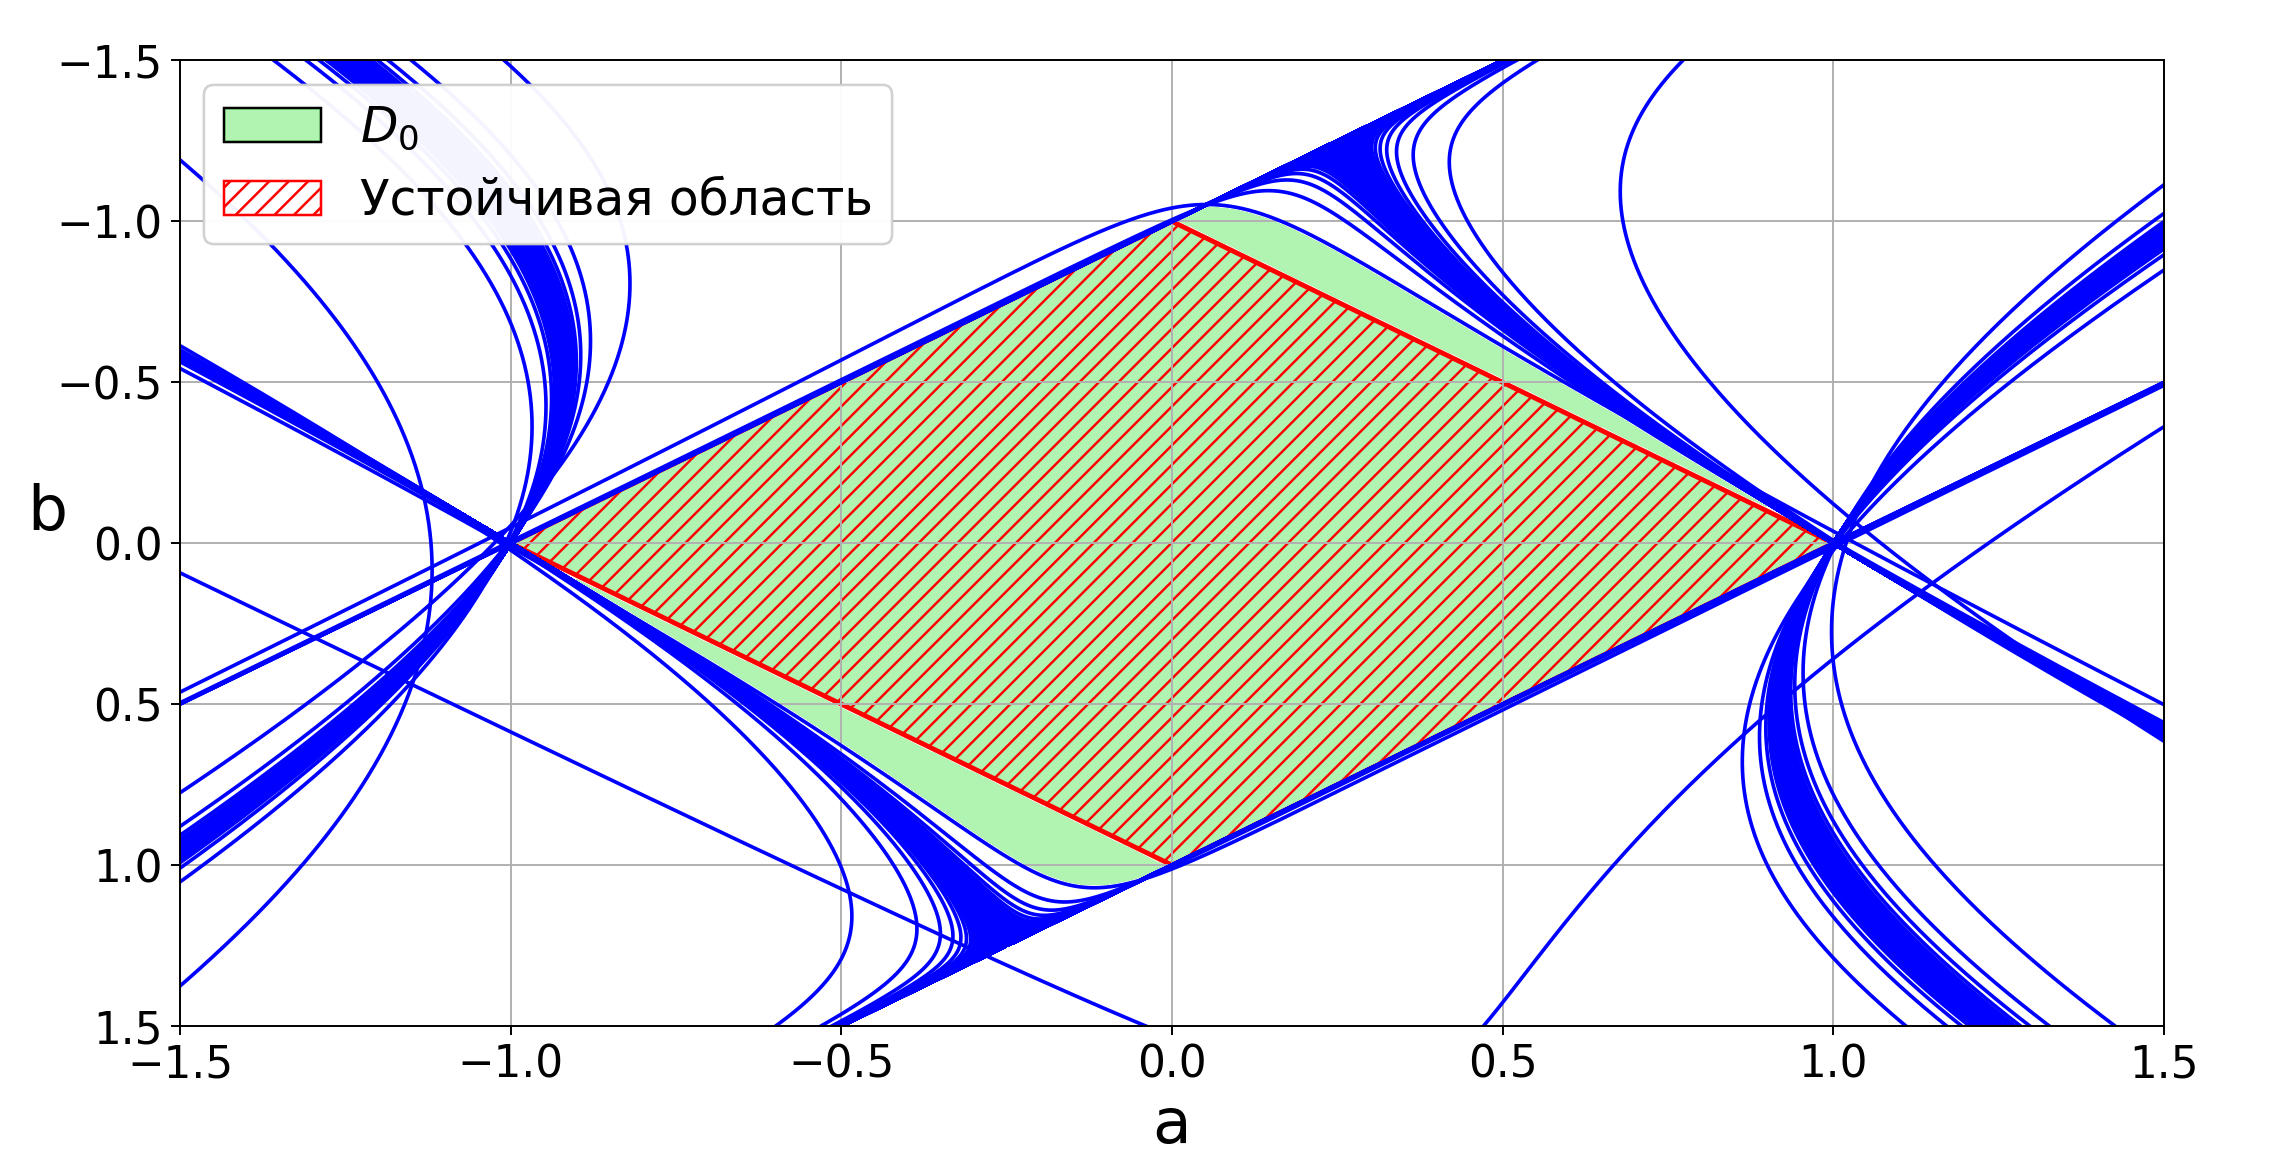
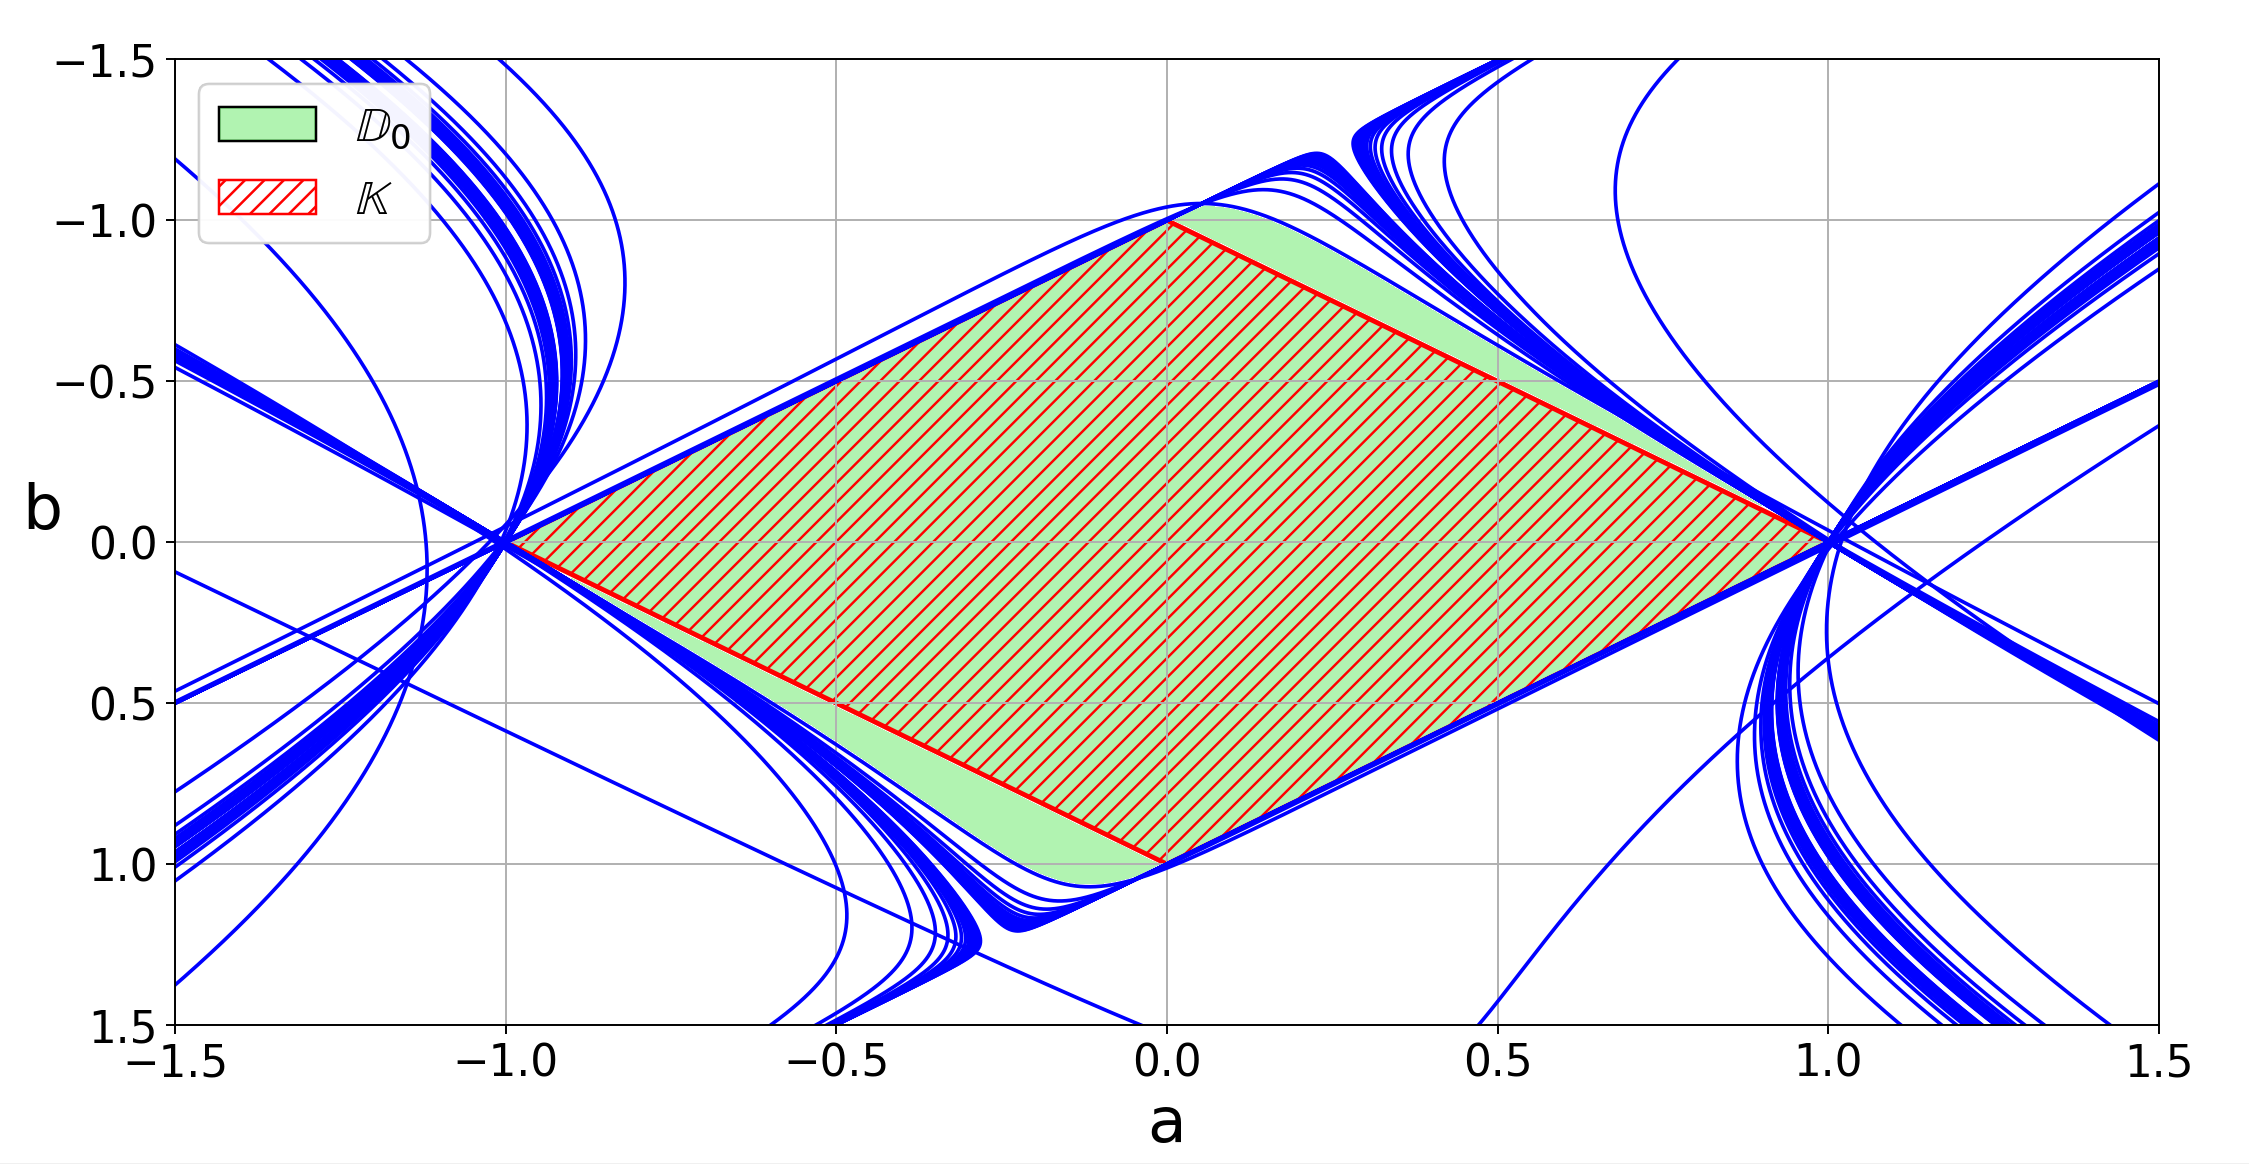
fix: diploma main.py

diff --git a/Diploma/python/scr/main/main.py b/Diploma/python/scr/main/main.py
@@ -61,9 +61,9 @@ if __name__ == '__main__':
             ax.plot(A, B, color='blue')
 
     legend_elements = [
-        Patch(facecolor='lightgreen', edgecolor='black', label='$D_0$'),
+        Patch(facecolor='lightgreen', edgecolor='black', label=r'$\mathbb{D}_0$'),
         plt.Rectangle((0, 0), 1, 1, facecolor='none', edgecolor='red',
-                      hatch='///', label='Устойчивая область')
+                      hatch='///', label=r'$\mathbb{K}$')
     ]
 
     legend = ax.legend(handles=legend_elements, loc='upper left', fontsize=20)
